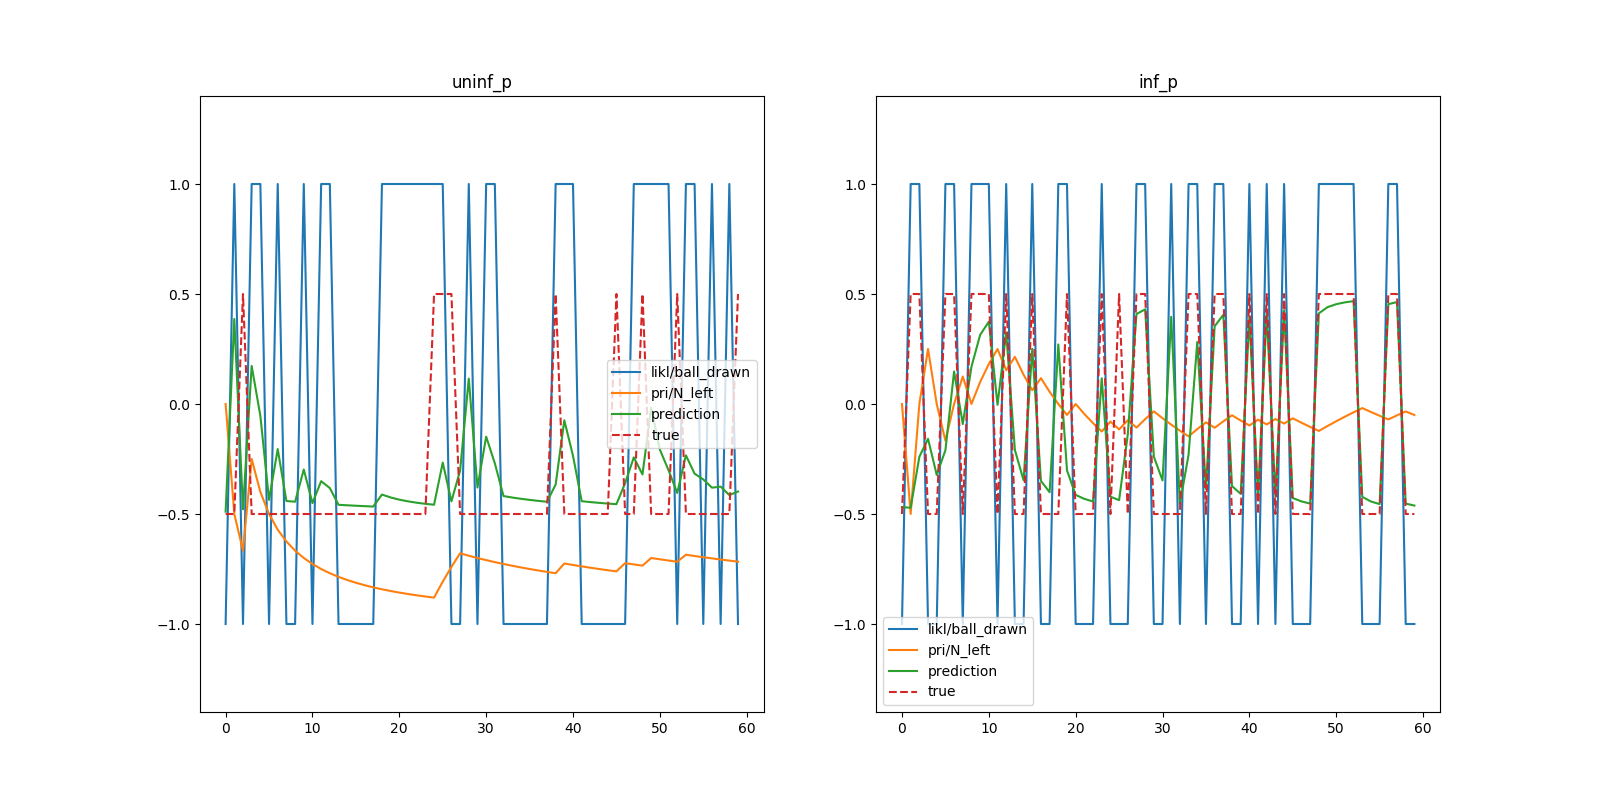
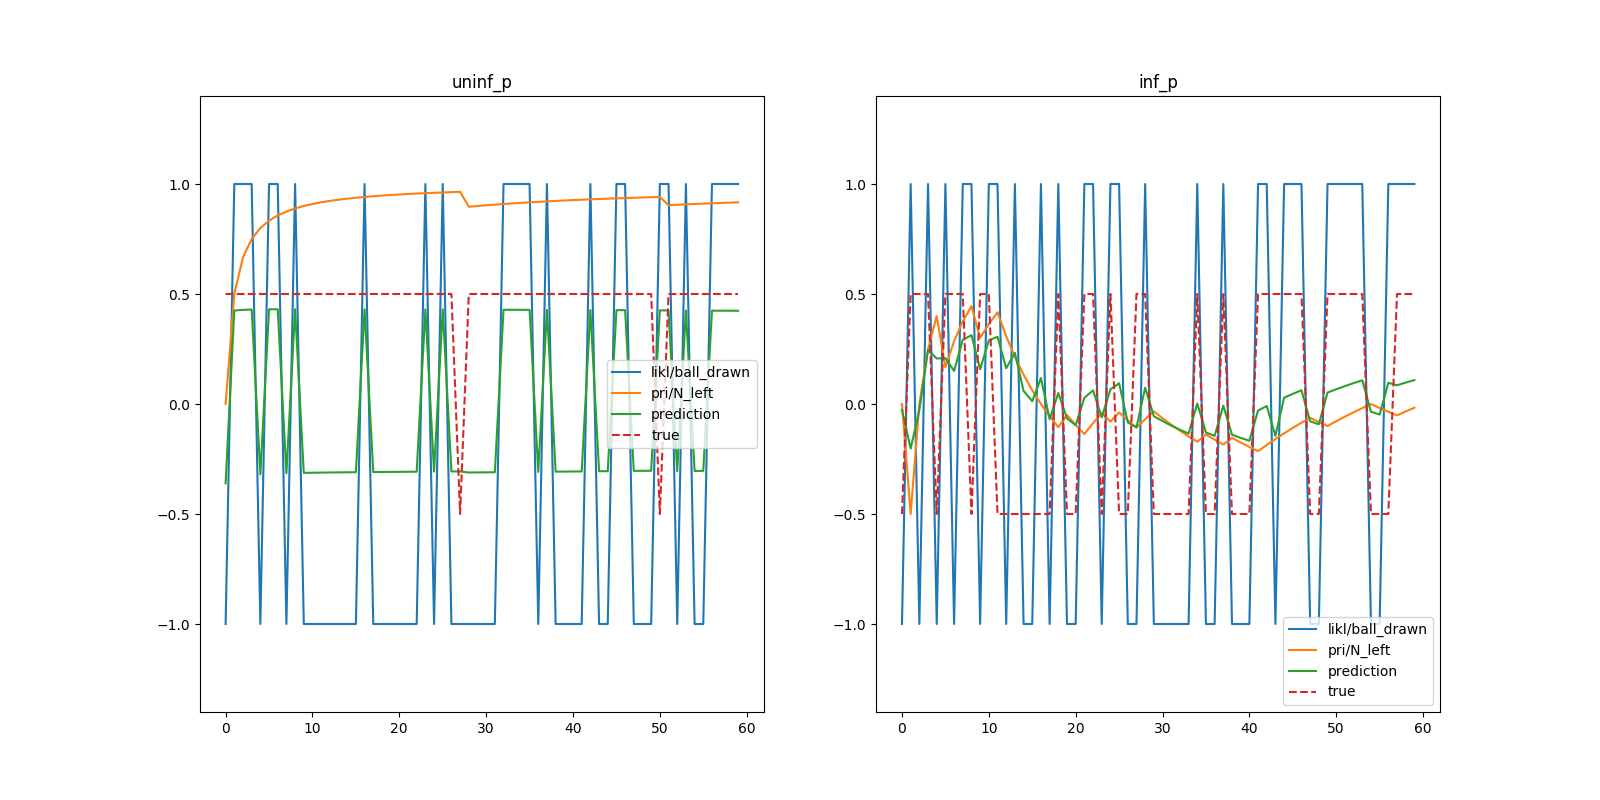
Added regression MLP, but reaction to prior info in classifier died

Changed region(s): [[0.5625, 0.2188, 0.9062, 0.875], [0.125, 0.2188, 0.4688, 0.7812]]

diff --git a/models.py b/models.py
@@ -5,6 +5,8 @@ import torch.nn as nn
 import torch.nn.functional as F
 import torch.optim as optim
 from scipy.special import beta
+from utils import inv_logit
+from utils import logit
 
 torch.manual_seed(1)
 
@@ -37,12 +39,13 @@ class MLPClassifier(nn.Module):
                 loss.backward()
                 self.optimizer.step()
                 
-    def test (self, data, sg_epoch, name):
+    def test (self, data, sg_epoch, name = None):
         # validate approx_models - will come back to this for resource rationality
         err_prob = 0    
         err = 0 
         count = 0.0
         pred = []
+        datapoint = {}
         for x, y in zip(data["X"], data["y"]):
             log_probs = self(autograd.Variable(x)).view(1,-1)
             err_prob += np.exp(log_probs.data.numpy()[0][1 - y.numpy()[0]])
@@ -50,11 +53,18 @@ class MLPClassifier(nn.Module):
             pred.append(np.exp(log_probs.data.numpy()[0][1]))
             count += 1.0
             
-            datapoint = {"X": x.view(1, -1),
-                         "y": y.view(1, -1)}
+            if not datapoint.keys():
+                datapoint = {"X": x.view(1, -1),
+                             "y": y.view(1, -1)}                
+            else:
+                datapoint["X"] = torch.cat((datapoint["X"], x.view(1, -1)), 0)
+                datapoint["y"] = torch.cat((datapoint["y"], y.view(1, -1)), 0)
+
+            
             self.train(datapoint, sg_epoch)
         
-        data["y_pred" + name] = np.array(pred)        
+        pred0 = torch.from_numpy(inv_logit(np.array(pred)).flatten())
+        data["y_pred_am"] = pred0.type(torch.FloatTensor)
         err /= count
         err_prob /= count
         print("classification error : {0}, \
@@ -66,7 +76,7 @@ class MLPClassifier(nn.Module):
 class MLPRegressor(nn.Module): 
 
     def __init__(self, input_size, nhid):
-        super(MLPClassifier, self).__init__()
+        super(MLPRegressor, self).__init__()
         self.fc1 = nn.Linear(input_size, nhid)
         self.fc2 = nn.Linear(nhid, 1)
         self.loss_function = nn.MSELoss()
@@ -81,7 +91,7 @@ class MLPRegressor(nn.Module):
     def train(self, data, N_epoch):
         
         for epoch in range(N_epoch):
-            for x, y in zip(data["X"], data["y"]):
+            for x, y in zip(data["X"], data["y_pred_hrm"]):
         
                 self.zero_grad()
         
@@ -93,27 +103,44 @@ class MLPRegressor(nn.Module):
                 self.optimizer.step()
         return
                 
-    def test (self, data, sg_epoch):
+    def test (self, data, sg_epoch, name = None):
         # validate approx_models - will come back to this for resource rationality
         err = 0 
+        err_prob = 0
         count = 0.0
         pred = []
-        for x, y in zip(data["X"], data["y"]):
+        datapoint = {}
+        
+        for x, y, y_p in zip(data["X"], data["y"], data["y_pred_hrm"]):
             yval = self(autograd.Variable(x)).view(1,-1)
-            err += (yval.data.numpy() - y)**2
+            py = inv_logit(yval.data.numpy())[0][0]
+            ty = 1 - y.numpy()[0]
+            err0 = ty*py + (1-ty)*(1 -py)
+            err_prob += err0
+            err += round(err0) 
+            #err += (inv_logit(yval.data.numpy()) - y)**2
             pred.append(yval.data.numpy()[0])
             count += 1.0
             
-            datapoint = {"X": x.view(1, -1),
-                         "y": y.view(1, -1)}
+            if not datapoint.keys():
+                datapoint = {"X": x.view(1, -1),
+                             "y": y.view(1, -1),
+                             "y_pred_hrm": y_p.view(1, -1)}                
+            else:
+                datapoint["X"] = torch.cat((datapoint["X"], x.view(1, -1)), 0)
+                datapoint["y"] = torch.cat((datapoint["y"], y.view(1, -1)), 0)
+                datapoint["y_pred_hrm"] = torch.cat((datapoint["y_pred_hrm"], y_p.view(1, -1)), 0)
+
             self.train(datapoint, sg_epoch)
         
-        data["y_pred"] = np.array(pred)        
+        pred0 = torch.from_numpy(inv_logit(np.array(pred)).flatten())
+        data["y_pred_am"] = pred0.type(torch.FloatTensor)
         err /= count
-        err = sqrt(err)
-        print("MS error : {0}".format(round(100*err)))
+        err_prob /= count
+        print("classification error : {0}, \
+        with prob : {1}".format(round(100*err), round(100*err_prob)))
         print("*********************")
-    
+        
         return
         
     
@@ -191,19 +218,23 @@ class UrnRational():
     def train(self, data):
         
         count = 0
+        preds = []
 
         for x, y in zip(data["X"], data["y"]):
             count += 1                
             draw, lik, pri, N = x.numpy()
             urn = y.numpy()
-            #print("X", x.numpy())
-            #pred = self.pred_post(draw, lik, pri, N)
+            preds.append(self.pred_post(draw, lik, pri, N)[1])
             if not count%self.N_t:
                 self.update_params(pri, N, urn)
-            
-        return    
+        
+        pred0 = torch.from_numpy(inv_logit(np.array(preds))).view(-1,1)
+        data["y_pred_hrm"] = pred0.type(torch.FloatTensor)
+        
+        
+        return data
     
-    def test (self, data, name):
+    def test (self, data, name = None):
         # validate approx_models - will come back to this for resource rationality
         err = 0 
         err_prob = 0
@@ -217,20 +248,18 @@ class UrnRational():
             preds.append(pred)
             err_prob += self.pred_post(draw, lik, pri, N)[1 - urn]
             err += round(self.pred_post(draw, lik, pri, N)[1 - urn])
-            #print(pred)
             count += 1.0
             
-            #datapoint = {"X": x.view(1, -1),
-                         #"y": y.view(1, -1)}
-            #self.train(datapoint)
+        pred0 = torch.from_numpy(inv_logit(np.array(preds))).view(-1,1)
+        data["y_pred_hrm"] = pred0.type(torch.FloatTensor)
         
-        data["y_pred" + name] = np.array(preds).flatten()       
         err /= count
         err_prob /= count
         print("classification error : {0}, \
         with prob : {1}".format(round(100*err), round(100*err_prob)))
         print("*********************")
-        return
+
+        return data
         
         
     

diff --git a/main.py b/main.py
@@ -12,14 +12,14 @@ import matplotlib.pyplot as plt
 
 torch.manual_seed(6)
 
-N_epoch = 5
-sg_epoch = 3
+N_epoch = 20
+sg_epoch = 0
     
-N_blocks = 10
-N_trials = 60
+N_blocks = 100
+N_trials = 20
 N_balls = 9
-testN_blocks = 1
-valN_blocks = 3
+testN_blocks = 3
+valN_blocks = 5
 
 expts = {"disc": {},
          "cont": {}}
@@ -86,30 +86,35 @@ for expt in ["disc"]:
         
             
         # train models
+
+        # Block model doesn't get trained
+        # Hierarchical model trains it's prior over mu_p and mu_l
+        d = expts[expt]["data"][cond]["train"]
+        d = expts[expt]["hrm"][cond].train(d)
+
         # approx
         expts[expt]["am"][cond].optimizer = \
             optim.SGD(expts[expt]["am"][cond].parameters(), lr=0.1)
-        expts[expt]["am"][cond].train(expts[expt]["data"][cond]["train"], N_epoch)
-        # Block model doesn't get trained
-        # Hierarchical model trains it's prior over mu_p and mu_l
-        expts[expt]["hrm"][cond].train(expts[expt]["data"][cond]["train"])
+        expts[expt]["am"][cond].train(d, N_epoch)
                 
         
     for cond in expts[expt]["data"]:
-        
-        print("Condition is : ", cond)
+                
         print("Val")
         dset = "val"
-        expts[expt]["am"][cond].test(expts[expt]["data"][cond][dset], sg_epoch, 'am')
-        expts[expt]["hrm"][cond].test(expts[expt]["data"][cond][dset], 'hrm')
+        d = expts[expt]["data"][cond][dset]
+        d = expts[expt]["hrm"][cond].test(d)
+        d = expts[expt]["am"][cond].test(d, sg_epoch)
+        
         print("Test")
         dset = "test"
-        expts[expt]["am"][cond].test(expts[expt]["data"][cond][dset], sg_epoch, 'am')
-        expts[expt]["hrm"][cond].test(expts[expt]["data"][cond][dset], 'hrm')
+        
+        d = expts[expt]["data"][cond][dset]
+        d = expts[expt]["hrm"][cond].test(d)
+        d = expts[expt]["am"][cond].test(d, sg_epoch)
         
     
                 
-    
     utils.plot_both(expts[expt]["data"], 'hrm', "val", fac, N_epoch)
     utils.plot_both(expts[expt]["data"], 'hrm', "test", fac, N_epoch)
     utils.plot_both(expts[expt]["data"], 'am', "val", fac, N_epoch)
@@ -118,20 +123,25 @@ for expt in ["disc"]:
         
         
         
-#parity = 2*expts[expt]["data"]["inf_p"]['test']["X"][1:-1,0].numpy() -1
+#parity = 2*d["X"][1:-1,0].numpy() -1
 parity = np.ones_like(expts[expt]["data"]["inf_p"]['test']["X"][1:-1,0].numpy())
 
-prob = False
+prob = True
 
-updates_inf = np.vstack((np.abs(utils.updates(expts[expt]["data"]["inf_p"]['test']["y_predhrm"], prob)), 
-                         np.abs(utils.updates(expts[expt]["data"]["inf_p"]['test']["y_predam"], prob)),
-                         np.abs(utils.updates(expts[expt]["data"]["inf_p"]['test']["X"][:,0].numpy())),
-                         np.abs(utils.updates(expts[expt]["data"]["inf_p"]['test']["X"][:,2].numpy()))))
+d = expts[expt]["data"]["inf_p"]['test']
 
-updates_uninf = np.vstack((np.abs(utils.updates(expts[expt]["data"]["uninf_p"]['test']["y_predhrm"], prob)), 
-                         np.abs(utils.updates(expts[expt]["data"]["uninf_p"]['test']["y_predam"], prob)),
-                         np.abs(utils.updates(expts[expt]["data"]["uninf_p"]['test']["X"][:,0].numpy())),
-                         np.abs(utils.updates(expts[expt]["data"]["uninf_p"]['test']["X"][:,2].numpy()))))
+updates_inf = np.vstack((np.abs(utils.updates(d["y_pred_hrm"].numpy().flatten(), N_trials, prob)), 
+                         np.abs(utils.updates(d["y_pred_am"].numpy(), N_trials, prob)),
+                         np.abs(utils.updates(d["X"][:,0].numpy(), N_trials)),
+                         np.abs(utils.updates(d["X"][:,2].numpy(), N_trials))))
+
+
+d = expts[expt]["data"]["uninf_p"]['test']
+
+updates_uninf = np.vstack((np.abs(utils.updates(d["y_pred_hrm"].numpy().flatten(), N_trials, prob)), 
+                         np.abs(utils.updates(d["y_pred_am"].numpy(), N_trials, prob)),
+                         np.abs(utils.updates(d["X"][:,0].numpy(), N_trials)),
+                         np.abs(utils.updates(d["X"][:,2].numpy(), N_trials))))
 
 
 
@@ -142,11 +152,14 @@ updates_uninf = np.vstack((np.abs(utils.updates(expts[expt]["data"]["uninf_p"]['
 #inf_am = np.cumsum(updates_inf[2,:]*updates_inf[1,:])
 #uninf_am = np.cumsum(updates_uninf[2,:]*updates_uninf[1,:])
 
-inf_hrm = updates_inf[2,:]*updates_inf[0,:]
-uninf_hrm = updates_uninf[2,:]*updates_uninf[0,:]
+#mask = updates_inf[2,:]
+mask = np.ones_like(updates_inf[2,:])
 
-inf_am = updates_inf[2,:]*updates_inf[1,:]
-uninf_am = updates_uninf[2,:]*updates_uninf[1,:]
+inf_hrm = mask*updates_inf[0,:]
+uninf_hrm = mask*updates_uninf[0,:]
+
+inf_am = mask*updates_inf[1,:]
+uninf_am = mask*updates_uninf[1,:]
 
 inf_hrm = inf_hrm[np.nonzero(inf_hrm)]
 uninf_hrm = uninf_hrm[np.nonzero(uninf_hrm)]
@@ -163,13 +176,17 @@ uninf_am = uninf_am[np.nonzero(uninf_am)]
 #inf_am /= inf_avg
 #inf_hrm /= inf_avg
 
-min, max = 0.0, 3.6*prob + (1-prob)*1.0
+min, max = 0.0, 1.0*prob + (1-prob)*1.0
 
 #plt.scatter(inf_hrm/inf_hrm[-1], inf_am/inf_am[-1], label = "inf")
 #plt.scatter(uninf_hrm/uninf_hrm[-1], uninf_am/uninf_am[-1], label = "uninf")
 
-plt.scatter(inf_hrm, inf_am, label = "low_dispersion")
-plt.scatter(uninf_hrm, uninf_am, label = "high_dispersion")
+s_order = np.ceil(np.arange(N_trials - 2)*100/N_trials)
+s_order = [int(x) for x in s_order]
+order = np.tile(s_order, testN_blocks)
+
+plt.scatter(inf_hrm, inf_am,  cmap="Blues_r", c=order, label = "low_dispersion", alpha =0.6)
+plt.scatter(uninf_hrm, uninf_am,  cmap="Reds_r", c=order, label = "high_dispersion", alpha = 0.6)
 
 #plt.plot(inf_hrm, inf_am, label = "low_dispersion")
 #plt.plot(uninf_hrm, uninf_am, label = "high_dispersion")

diff --git a/utils.py b/utils.py
@@ -6,8 +6,16 @@ import torch.nn.functional as F
 import torch.optim as optim
 import matplotlib.pyplot as plt
 
+
+def inv_logit(p):
+    return np.exp(p) / (1 + np.exp(p))
+
+def logit(p):
+    return np.log(p) - np.log(1 - p)
         
 def plot_both(data, model, dset, fac, N_epoch):
+
+    
     
     count = 0
     fig = plt.figure(figsize=(16,8))
@@ -16,7 +24,7 @@ def plot_both(data, model, dset, fac, N_epoch):
         ax = fig.add_subplot(1, 2, count)
         ax.plot(2*data[cond][dset]["X"].numpy()[:, 0] - 1, label = "likl/ball_drawn")
         ax.plot(data[cond][dset]["X"].numpy()[:, 2], label = "pri/N_left")
-        ax.plot(data[cond][dset]["y_pred" + model] - 0.5, label = "prediction")
+        ax.plot(data[cond][dset]["y_pred_" + model].numpy() - 0.5, label = "prediction")
         #print("\n", model, data[cond][dset]["y_pred" + model] - 0.5)
         ax.plot(data[cond][dset]["y"].numpy() - 0.5, label = "true", linestyle = "--")
         ax.set_title('{0}'.format(cond))
@@ -26,9 +34,11 @@ def plot_both(data, model, dset, fac, N_epoch):
         plt.savefig('figs/{0}{1}_fac{2}epochs{3}.png'.format(model, dset,round(fac), N_epoch))
         
         
-def updates(array, prob = False):
+def updates(array, N_trials, prob = False):
     if prob:
-        ret = np.array([np.log(array[i+2]) - np.log(array[i+1]) for i in np.arange(array.size - 2)])
+        ret = np.array([logit(array[i+1]) - logit(array[i]) for i in np.arange(array.size - 1) \
+                        if (i%N_trials != 0 and i%N_trials != N_trials-1)])
     else:
-        ret = np.array([array[i+2] - array[i+1] for i in np.arange(array.size - 2)])
+        ret = np.array([array[i+1] - array[i] for i in np.arange(array.size - 1) \
+                        if (i%N_trials != 0 and i%N_trials != N_trials-1)])
     return ret

diff --git a/generative.py b/generative.py
@@ -8,13 +8,16 @@ import torch.optim as optim
 import models
 reload(models)
 
-torch.manual_seed(1)
+torch.manual_seed(30)
 
 
 class Urn ():
     
     def get_approxmodel(self, NUM_LABELS, INPUT_SIZE, nhid):
+        
+        #return models.MLPRegressor(INPUT_SIZE, nhid)
         return models.MLPClassifier(NUM_LABELS, INPUT_SIZE, nhid)
+
     
     def data_gen(self, ps, ls, N_trials, N_blocks, N_balls):
     
